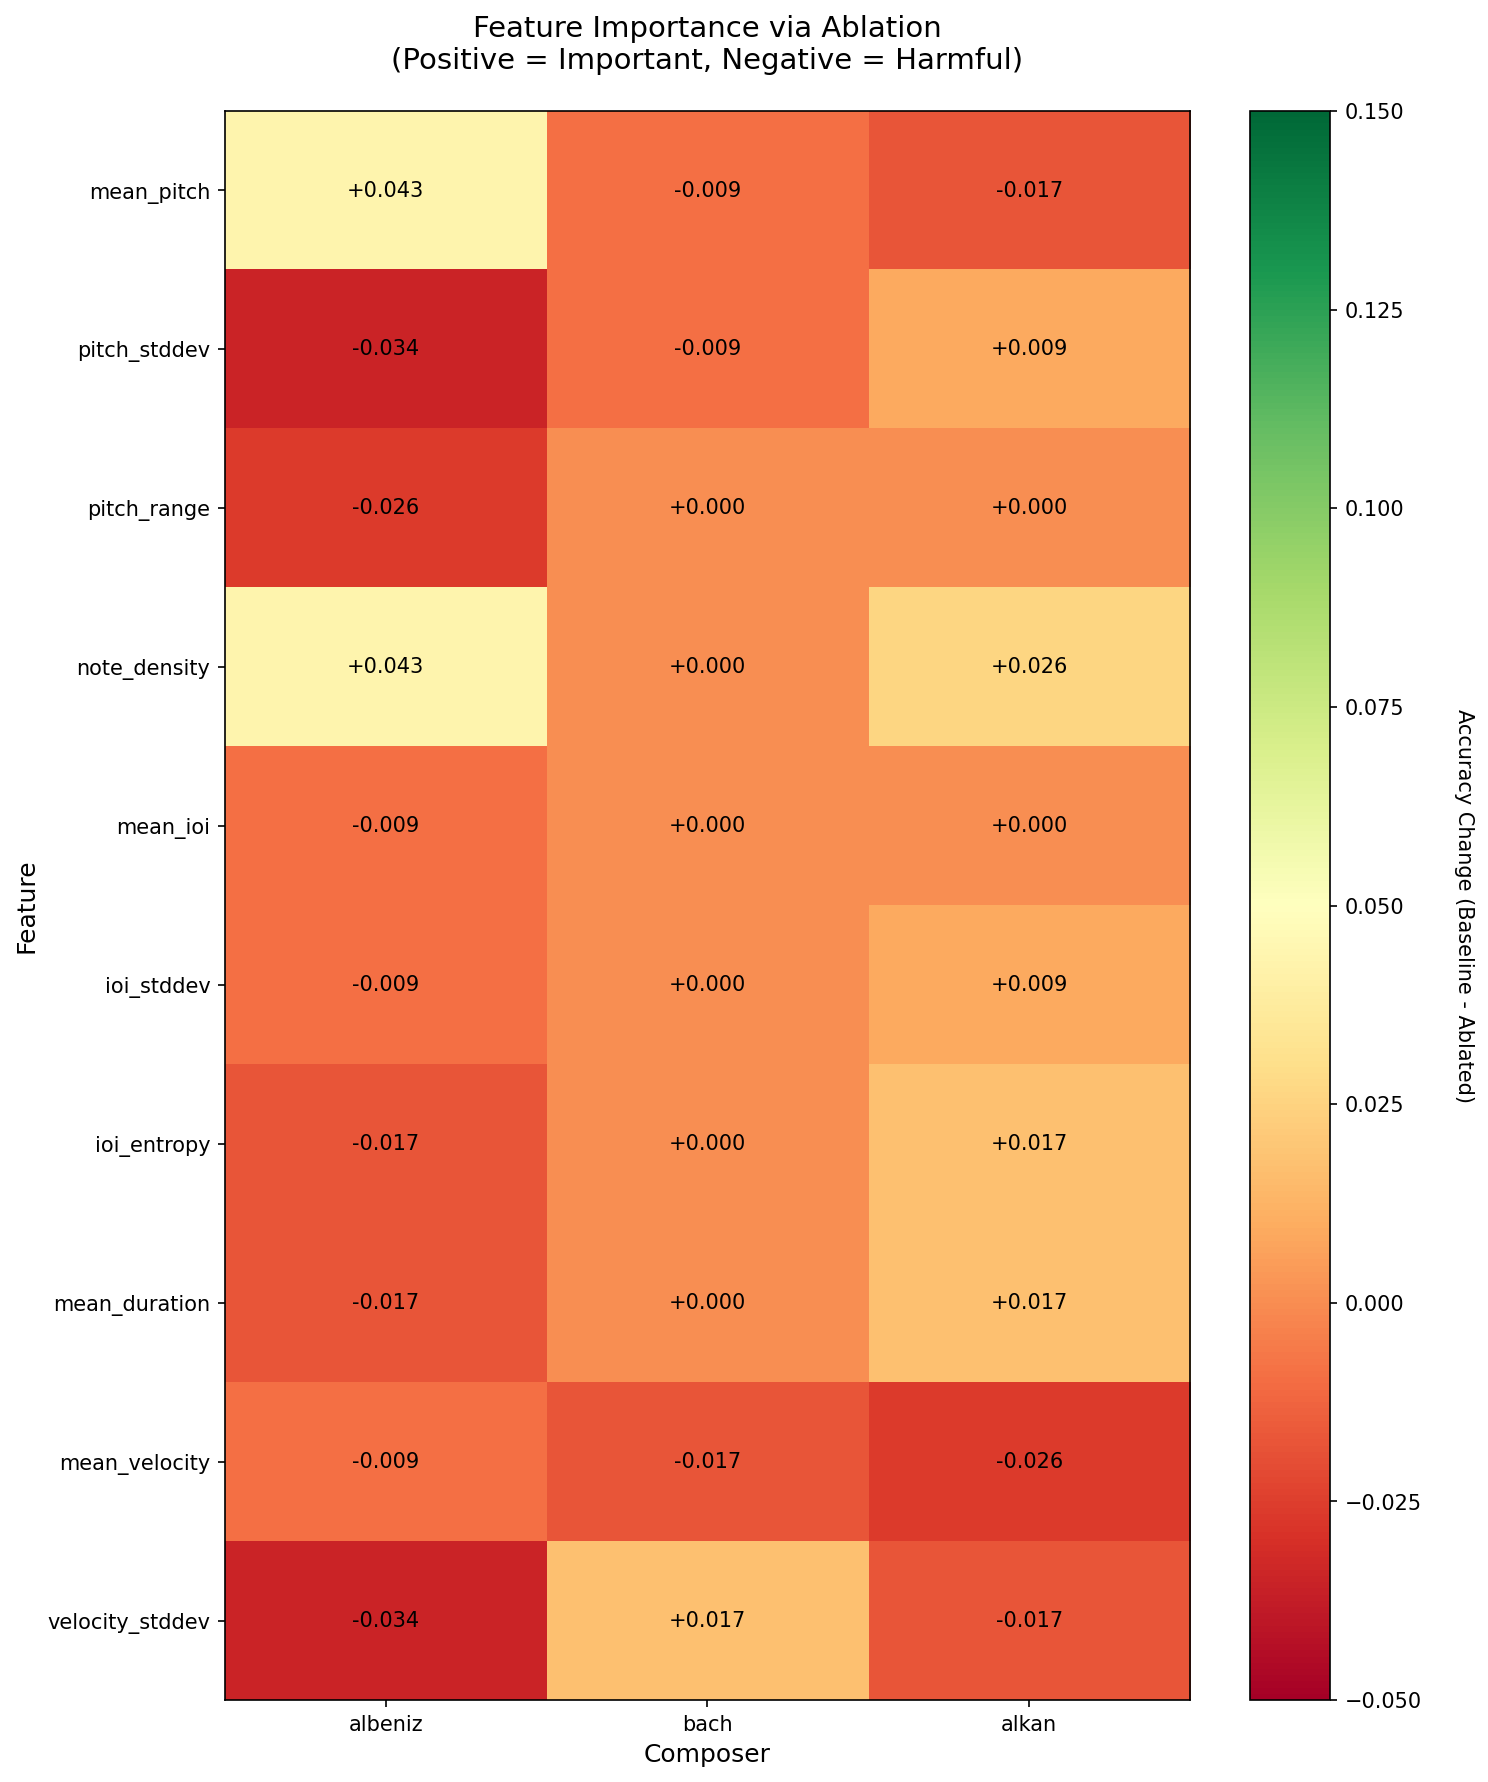
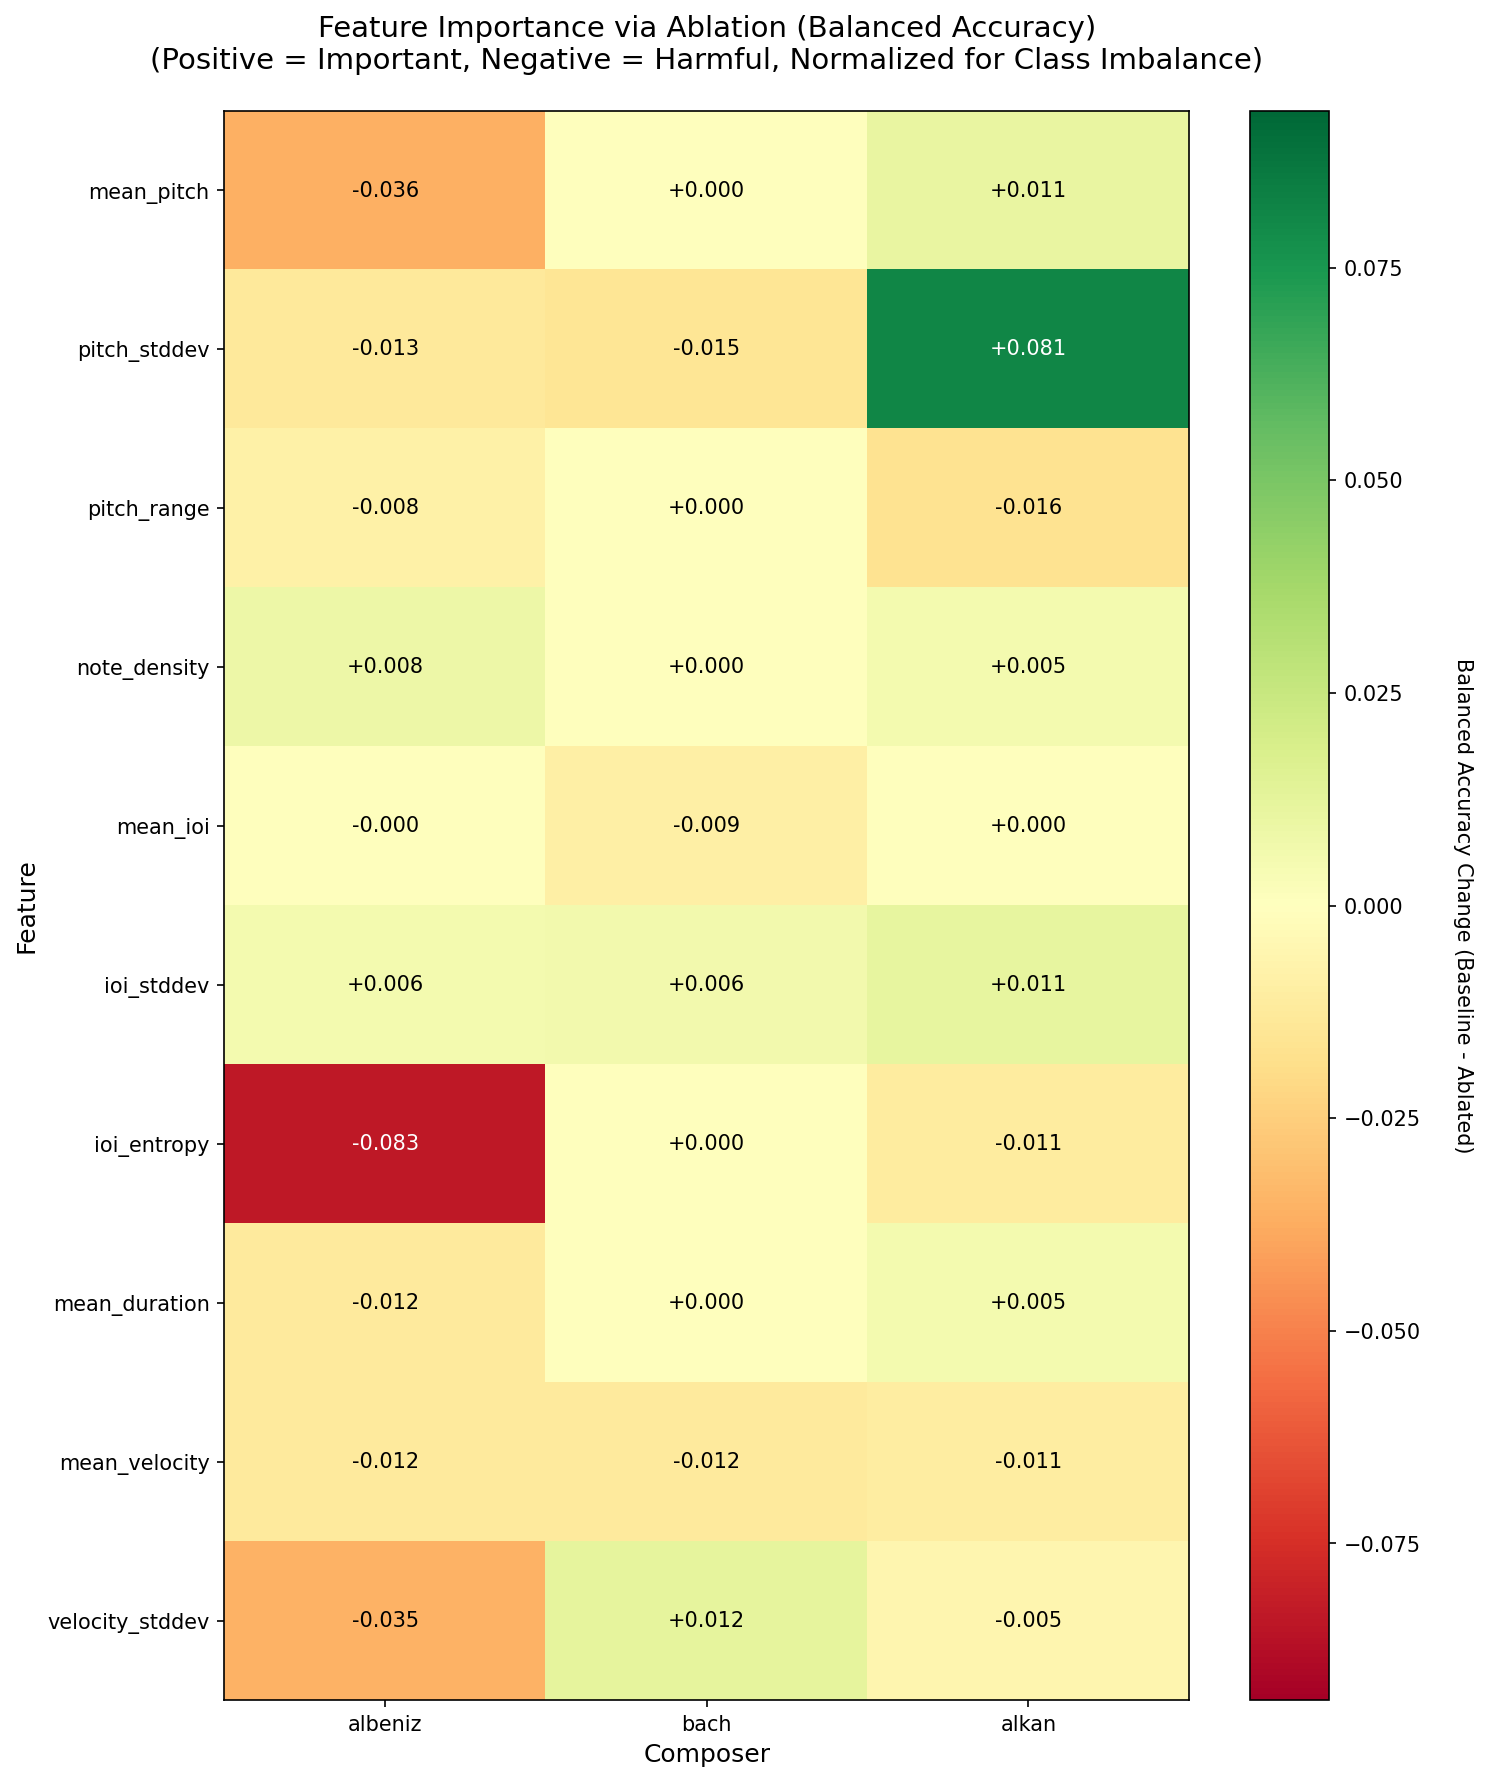
deleted and cleaned

diff --git a/composer_matrix.py b/composer_matrix.py
@@ -46,8 +46,22 @@ def solve_least_squares(A, b):
     return x
 
 
+def calculate_balanced_accuracy(y_pred, y_true):
+    """Calculate balanced accuracy (accounts for class imbalance)."""
+    tp = np.sum((y_pred == 1) & (y_true == 1))
+    tn = np.sum((y_pred == 0) & (y_true == 0))
+    fp = np.sum((y_pred == 1) & (y_true == 0))
+    fn = np.sum((y_pred == 0) & (y_true == 1))
+    
+    sensitivity = tp / (tp + fn) if (tp + fn) > 0 else 0
+    specificity = tn / (tn + fp) if (tn + fp) > 0 else 0
+    
+    balanced_acc = (sensitivity + specificity) / 2
+    return balanced_acc
+
+
 def find_optimal_threshold(y_pred_raw, y_true):
-    """Find the optimal threshold that maximizes accuracy."""
+    """Find the optimal threshold that maximizes balanced accuracy."""
     min_pred = np.min(y_pred_raw)
     max_pred = np.max(y_pred_raw)
     thresholds = np.linspace(min_pred, max_pred, 100)
@@ -56,9 +70,9 @@ def find_optimal_threshold(y_pred_raw, y_true):
     
     for threshold in thresholds:
         y_pred = (y_pred_raw >= threshold).astype(int)
-        accuracy = np.mean(y_pred == y_true)
-        if accuracy > best_accuracy:
-            best_accuracy = accuracy
+        balanced_acc = calculate_balanced_accuracy(y_pred, y_true)
+        if balanced_acc > best_accuracy:
+            best_accuracy = balanced_acc
             best_threshold = threshold
     
     return best_threshold, thresholds
@@ -66,6 +80,7 @@ def find_optimal_threshold(y_pred_raw, y_true):
 
 def evaluate_classifier(y_pred, y_true):
     """Evaluate classifier performance."""
+    balanced_acc = calculate_balanced_accuracy(y_pred, y_true)
     accuracy = np.mean(y_pred == y_true)
     tp = np.sum((y_pred == 1) & (y_true == 1))
     fp = np.sum((y_pred == 1) & (y_true == 0))
@@ -73,7 +88,7 @@ def evaluate_classifier(y_pred, y_true):
     precision = tp / (tp + fp) if (tp + fp) > 0 else 0
     recall = tp / (tp + fn) if (tp + fn) > 0 else 0
     f1 = 2 * (precision * recall) / (precision + recall) if (precision + recall) > 0 else 0
-    return {'accuracy': accuracy, 'precision': precision, 'recall': recall, 'f1': f1}
+    return {'balanced_accuracy': balanced_acc, 'accuracy': accuracy, 'precision': precision, 'recall': recall, 'f1': f1}
 
 
 def binary_classify_pair(X, Y, composer1, composer2, test_size=0.3, random_seed=42):
@@ -125,6 +140,7 @@ def binary_classify_pair(X, Y, composer1, composer2, test_size=0.3, random_seed=
     results = evaluate_classifier(y_test_pred, y_test)
     
     return {
+        'balanced_accuracy': results['balanced_accuracy'],
         'accuracy': results['accuracy'],
         'precision': results['precision'],
         'recall': results['recall'],
@@ -144,24 +160,24 @@ def plot_threshold_graph(result, pair_num):
     """Plot threshold optimization graph for a composer pair."""
     fig, ax = plt.subplots(figsize=(8, 6))
     
-    # Calculate accuracies for all thresholds
-    accuracies = []
+    # Calculate balanced accuracies for all thresholds
+    balanced_accuracies = []
     for threshold in result['all_thresholds']:
         y_pred = (result['y_train_pred_raw'] >= threshold).astype(int)
-        accuracy = np.mean(y_pred == result['y_train'])
-        accuracies.append(accuracy)
+        balanced_acc = calculate_balanced_accuracy(y_pred, result['y_train'])
+        balanced_accuracies.append(balanced_acc)
     
     # Plot
-    ax.plot(result['all_thresholds'], accuracies, linewidth=2, color='purple', label='Accuracy')
+    ax.plot(result['all_thresholds'], balanced_accuracies, linewidth=2, color='purple', label='Balanced Accuracy')
     ax.axvline(x=result['threshold'], color='green', linestyle='--', linewidth=2, 
                label=f'Optimal Threshold = {result["threshold"]:.4f}')
-    ax.axhline(y=result['accuracy'], color='red', linestyle='--', linewidth=1, alpha=0.5,
-               label=f'Test Accuracy = {result["accuracy"]:.4f}')
+    ax.axhline(y=result['balanced_accuracy'], color='red', linestyle='--', linewidth=1, alpha=0.5,
+               label=f'Test Balanced Accuracy = {result["balanced_accuracy"]:.4f}')
     
     ax.set_xlabel('Threshold', fontsize=12)
-    ax.set_ylabel('Accuracy', fontsize=12)
+    ax.set_ylabel('Balanced Accuracy', fontsize=12)
     ax.set_title(f'{result["composer1"]} vs {result["composer2"]}\n'
-                 f'Test Accuracy: {result["accuracy"]:.4f} ({result["accuracy"]*100:.2f}%)',
+                 f'Test Balanced Accuracy: {result["balanced_accuracy"]:.4f} ({result["balanced_accuracy"]*100:.2f}%)',
                  fontsize=14)
     ax.legend()
     ax.grid(alpha=0.3)
@@ -197,10 +213,10 @@ def create_composer_matrix(X, Y, top_n=3):
             result = binary_classify_pair(X, Y, composer1, composer2)
             
             if result:
-                accuracy_matrix[i, j] = result['accuracy']
-                accuracy_matrix[j, i] = result['accuracy']  # Symmetric
+                accuracy_matrix[i, j] = result['balanced_accuracy']
+                accuracy_matrix[j, i] = result['balanced_accuracy']  # Symmetric
                 pair_results.append(result)
-                print(f"  Accuracy: {result['accuracy']:.4f} ({result['accuracy']*100:.2f}%)")
+                print(f"  Balanced Accuracy: {result['balanced_accuracy']:.4f} ({result['balanced_accuracy']*100:.2f}%)")
                 print(f"  Precision: {result['precision']:.4f}, Recall: {result['recall']:.4f}, F1: {result['f1']:.4f}")
                 
                 # Plot threshold graph
@@ -221,7 +237,7 @@ def visualize_matrix(accuracy_matrix, composer_names):
     
     im = ax.imshow(accuracy_matrix, cmap='RdYlGn', vmin=0.5, vmax=1.0, aspect='auto')
     cbar = plt.colorbar(im, ax=ax)
-    cbar.set_label('Accuracy', rotation=270, labelpad=20)
+    cbar.set_label('Balanced Accuracy', rotation=270, labelpad=20)
     
     ax.set_xticks(np.arange(len(composer_names)))
     ax.set_yticks(np.arange(len(composer_names)))
@@ -241,7 +257,7 @@ def visualize_matrix(accuracy_matrix, composer_names):
     
     ax.set_xlabel('Composer 2 (Predicted)', fontsize=12)
     ax.set_ylabel('Composer 1 (True)', fontsize=12)
-    ax.set_title('Binary Classification Accuracy Matrix', fontsize=14, pad=20)
+    ax.set_title('Binary Classification Balanced Accuracy Matrix\n(Normalized for Class Imbalance)', fontsize=14, pad=20)
     
     plt.tight_layout()
     plt.savefig('composer_matrix.png', dpi=150, bbox_inches='tight')
@@ -264,7 +280,7 @@ def main():
     
     # Print matrix
     print("\n" + "=" * 80)
-    print("ACCURACY MATRIX")
+    print("BALANCED ACCURACY MATRIX")
     print("=" * 80)
     print(f"\n{'':15s}", end="")
     for name in composer_names:

diff --git a/feature_ablation.py b/feature_ablation.py
@@ -44,8 +44,22 @@ def solve_least_squares(A, b):
     return x
 
 
+def calculate_balanced_accuracy(y_pred, y_true):
+    """Calculate balanced accuracy (accounts for class imbalance)."""
+    tp = np.sum((y_pred == 1) & (y_true == 1))
+    tn = np.sum((y_pred == 0) & (y_true == 0))
+    fp = np.sum((y_pred == 1) & (y_true == 0))
+    fn = np.sum((y_pred == 0) & (y_true == 1))
+    
+    sensitivity = tp / (tp + fn) if (tp + fn) > 0 else 0
+    specificity = tn / (tn + fp) if (tn + fp) > 0 else 0
+    
+    balanced_acc = (sensitivity + specificity) / 2
+    return balanced_acc
+
+
 def find_optimal_threshold(y_pred_raw, y_true):
-    """Find the optimal threshold that maximizes accuracy."""
+    """Find the optimal threshold that maximizes balanced accuracy."""
     min_pred = np.min(y_pred_raw)
     max_pred = np.max(y_pred_raw)
     thresholds = np.linspace(min_pred, max_pred, 100)
@@ -54,9 +68,9 @@ def find_optimal_threshold(y_pred_raw, y_true):
     
     for threshold in thresholds:
         y_pred = (y_pred_raw >= threshold).astype(int)
-        accuracy = np.mean(y_pred == y_true)
-        if accuracy > best_accuracy:
-            best_accuracy = accuracy
+        balanced_acc = calculate_balanced_accuracy(y_pred, y_true)
+        if balanced_acc > best_accuracy:
+            best_accuracy = balanced_acc
             best_threshold = threshold
     
     return best_threshold
@@ -113,10 +127,10 @@ def classify_with_features(X, y, feature_indices, test_size=0.3, random_seed=42)
     # Classify test set
     y_test_pred = (y_test_pred_raw >= optimal_threshold).astype(int)
     
-    # Calculate accuracy
-    accuracy = np.mean(y_test_pred == y_test)
+    # Calculate balanced accuracy
+    balanced_acc = calculate_balanced_accuracy(y_test_pred, y_test)
     
-    return accuracy
+    return balanced_acc
 
 
 def ablation_study_for_composer(X, Y, target_composer, feature_names):
@@ -144,8 +158,8 @@ def ablation_study_for_composer(X, Y, target_composer, feature_names):
     
     # Baseline: all features
     all_features = list(range(X.shape[1]))
-    baseline_accuracy = classify_with_features(X, y, all_features)
-    print(f"  Baseline accuracy (all features): {baseline_accuracy:.4f} ({baseline_accuracy*100:.2f}%)")
+    baseline_balanced_acc = classify_with_features(X, y, all_features)
+    print(f"  Baseline balanced accuracy (all features): {baseline_balanced_acc:.4f} ({baseline_balanced_acc*100:.2f}%)")
     
     # Ablate each feature
     ablation_results = {}
@@ -156,21 +170,21 @@ def ablation_study_for_composer(X, Y, target_composer, feature_names):
         features_without_i = [j for j in range(X.shape[1]) if j != i]
         
         # Train without this feature
-        ablated_accuracy = classify_with_features(X, y, features_without_i)
+        ablated_balanced_acc = classify_with_features(X, y, features_without_i)
         
         # Calculate change
-        accuracy_change = baseline_accuracy - ablated_accuracy
+        accuracy_change = baseline_balanced_acc - ablated_balanced_acc
         
         ablation_results[feature_name] = {
-            'ablated_accuracy': ablated_accuracy,
+            'ablated_balanced_accuracy': ablated_balanced_acc,
             'accuracy_change': accuracy_change
         }
         
         change_str = f"{accuracy_change:+.4f}" if accuracy_change >= 0 else f"{accuracy_change:.4f}"
-        print(f"    {feature_name:20s}: {ablated_accuracy:.4f} (change: {change_str})")
+        print(f"    {feature_name:20s}: {ablated_balanced_acc:.4f} (change: {change_str})")
     
     return {
-        'baseline_accuracy': baseline_accuracy,
+        'baseline_balanced_accuracy': baseline_balanced_acc,
         'ablation_results': ablation_results
     }
 
@@ -194,15 +208,21 @@ def create_ablation_heatmap(results, composer_names, feature_names):
         for i, feature in enumerate(feature_names):
             heatmap_data[i, j] = results[composer]['ablation_results'][feature]['accuracy_change']
     
+    # Update colorbar range based on data
+    vmin = np.min(heatmap_data) - 0.01
+    vmax = np.max(heatmap_data) + 0.01
+    
     # Create figure
     fig, ax = plt.subplots(figsize=(10, 12))
     
     # Use diverging colormap (red = important, blue = harmful)
-    im = ax.imshow(heatmap_data, cmap='RdYlGn', aspect='auto', vmin=-0.05, vmax=0.15)
+    # Center colormap at 0 for better visualization
+    vmax_abs = max(abs(vmin), abs(vmax))
+    im = ax.imshow(heatmap_data, cmap='RdYlGn', aspect='auto', vmin=-vmax_abs, vmax=vmax_abs)
     
     # Add colorbar
     cbar = plt.colorbar(im, ax=ax)
-    cbar.set_label('Accuracy Change (Baseline - Ablated)', rotation=270, labelpad=25)
+    cbar.set_label('Balanced Accuracy Change (Baseline - Ablated)', rotation=270, labelpad=25)
     
     # Set ticks and labels
     ax.set_xticks(np.arange(n_composers))
@@ -222,7 +242,7 @@ def create_ablation_heatmap(results, composer_names, feature_names):
     
     ax.set_xlabel('Composer', fontsize=12)
     ax.set_ylabel('Feature', fontsize=12)
-    ax.set_title('Feature Importance via Ablation\n(Positive = Important, Negative = Harmful)', 
+    ax.set_title('Feature Importance via Ablation (Balanced Accuracy)\n(Positive = Important, Negative = Harmful, Normalized for Class Imbalance)', 
                  fontsize=14, pad=20)
     
     plt.tight_layout()
@@ -239,8 +259,8 @@ def print_summary(results, composer_names):
     
     for composer in composer_names:
         print(f"\n{composer.upper()}:")
-        print(f"  Baseline Accuracy: {results[composer]['baseline_accuracy']:.4f} "
-              f"({results[composer]['baseline_accuracy']*100:.2f}%)")
+        print(f"  Baseline Balanced Accuracy: {results[composer]['baseline_balanced_accuracy']:.4f} "
+              f"({results[composer]['baseline_balanced_accuracy']*100:.2f}%)")
         
         # Sort features by importance
         ablation_results = results[composer]['ablation_results']
